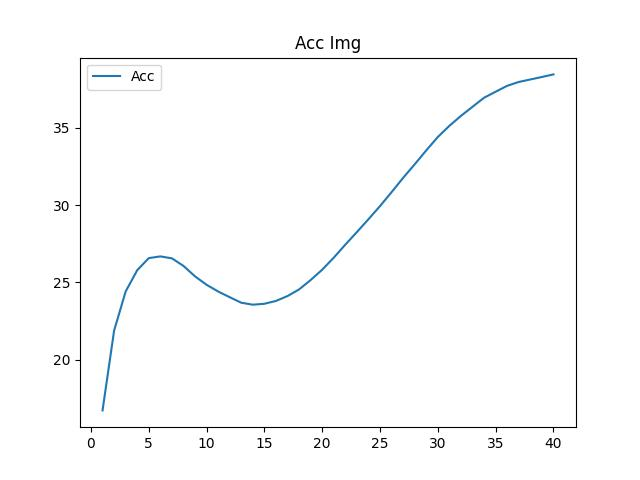
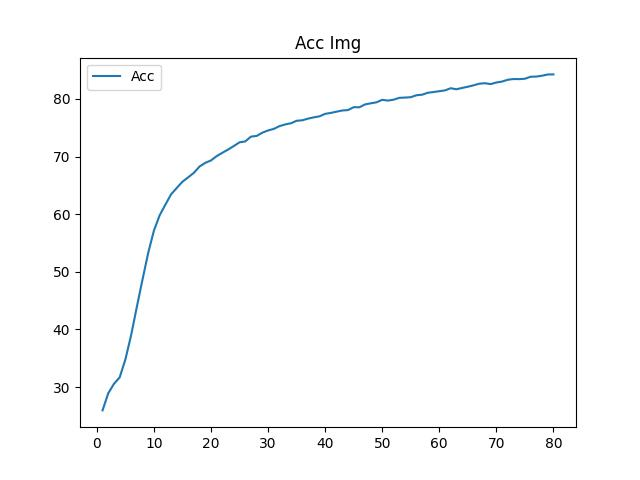
update GCN

diff --git a/node_classify_in_GCN/model.py b/node_classify_in_GCN/model.py
@@ -7,15 +7,16 @@ from load_config import load_config
 class Model(torch.nn.Module):
     def __init__(self):
         super().__init__()
-        self.gcn1 = torch_geometric.nn.GCNConv(in_channels=8710, out_channels=128)
-        self.gcn2 = torch_geometric.nn.GCNConv(in_channels=128, out_channels=70)
+        self.gcn1 = torch_geometric.nn.GCNConv(in_channels=8710, out_channels=1024)
+        self.gcn2 = torch_geometric.nn.GCNConv(in_channels=1024, out_channels=70)
         return
     
     def forward(self, inputs, edges):
         outputs = self.gcn1(inputs, edges)
         outputs = F.relu(outputs)
+        outputs = F.dropout(outputs, p=0.5)
         outputs = self.gcn2(outputs, edges)
-        outputs = F.softmax(outputs, dim=-1)
+        outputs = F.log_softmax(outputs, dim=-1)
         return outputs
 
 
